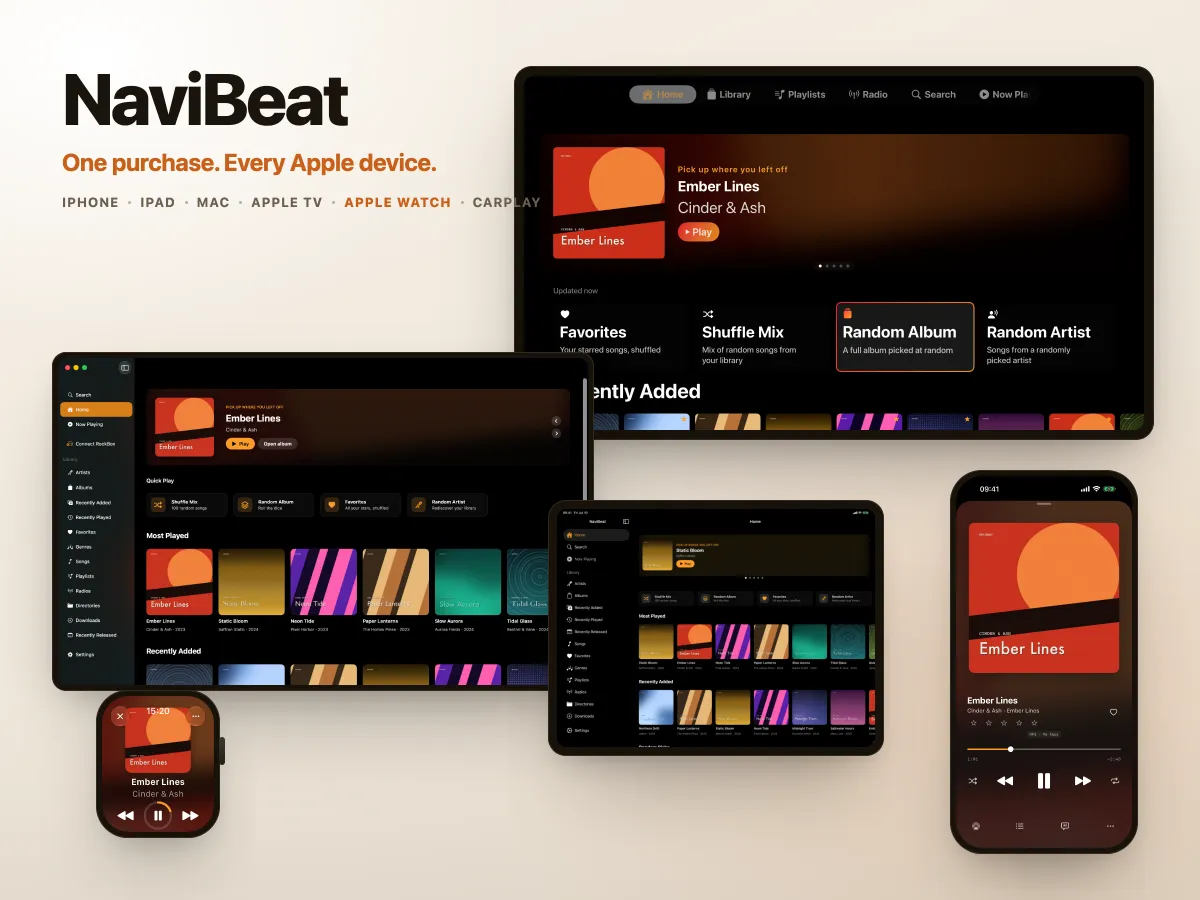
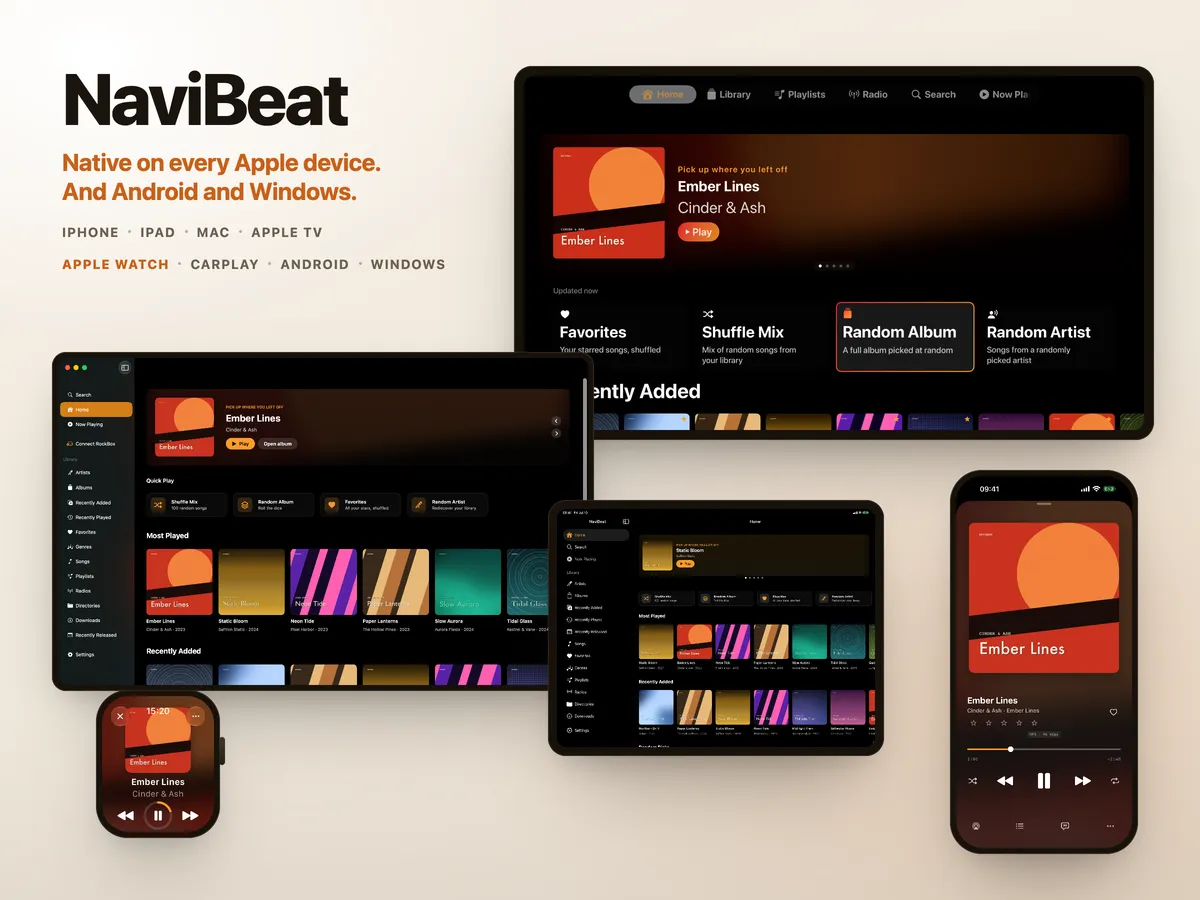
NaviBeat: add Windows and Android (#499)
* NaviBeat: add Windows

* NaviBeat: add Android (Google Play), now in production

* app-card: link the Windows icon when platforms.windows has a store URL, same as Android

* NaviBeat thumbnail: tagline and platform row name Android

Changed region(s): [[0.0308, 0.1556, 0.4317, 0.3111], [0.3083, 0.28, 0.37, 0.3111]]

diff --git a/layouts/partials/app-card.html b/layouts/partials/app-card.html
@@ -172,7 +172,13 @@
           {{ end }}
         {{ end }}
         {{ if $platforms.windows }}
-          <span title="Windows"><i class="fab fa-windows"></i></span>
+          {{ if and (ne (printf "%T" $platforms.windows) "bool") (isset $platforms.windows "store") }}
+            <a href="{{ $platforms.windows.store }}" target="_blank" rel="noopener" title="Windows">
+              <i class="fab fa-windows"></i>
+            </a>
+          {{ else }}
+            <span title="Windows"><i class="fab fa-windows"></i></span>
+          {{ end }}
         {{ end }}
         {{ if $platforms.linux }}
           <span title="Linux"><i class="fab fa-linux"></i></span>
